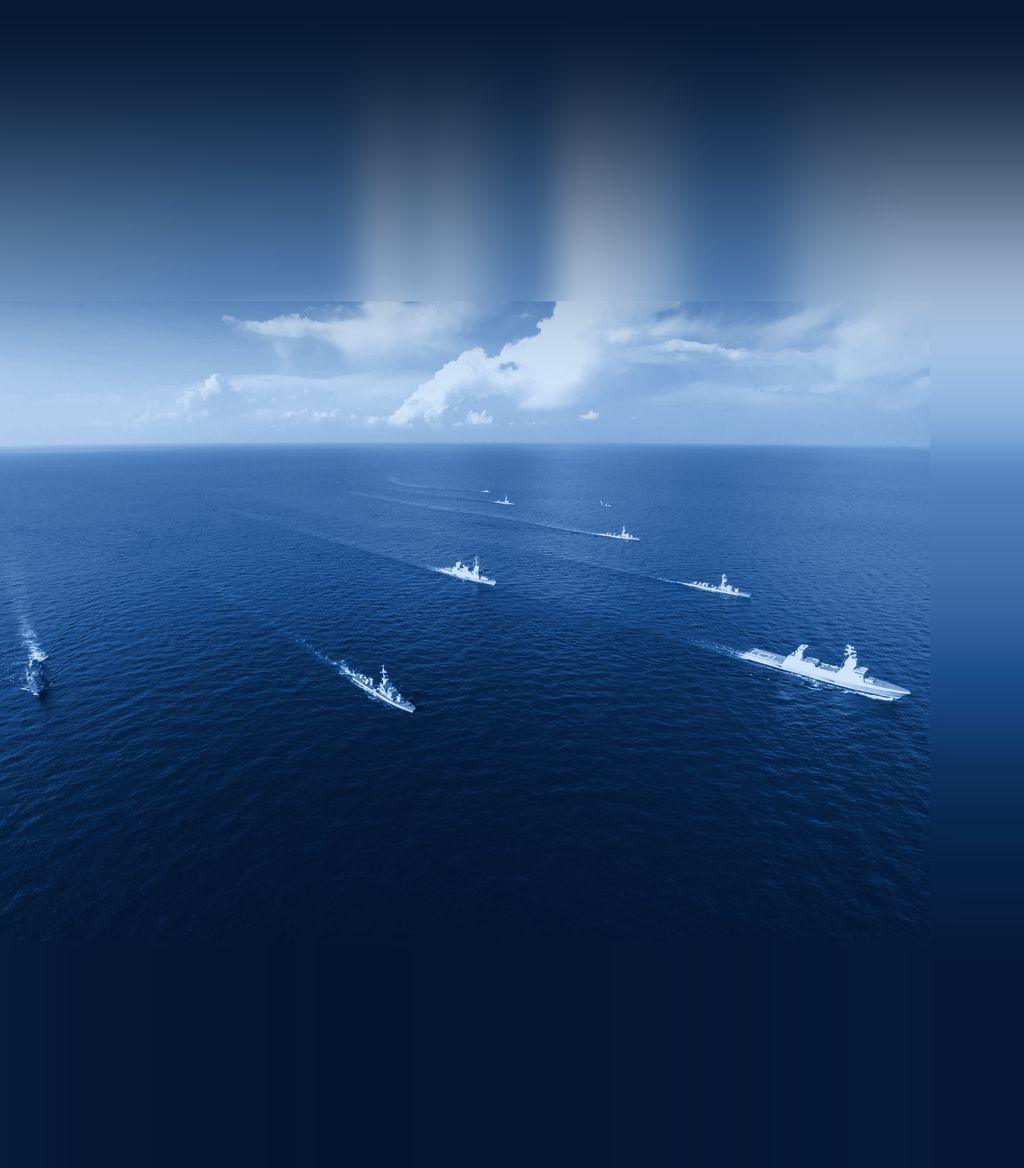
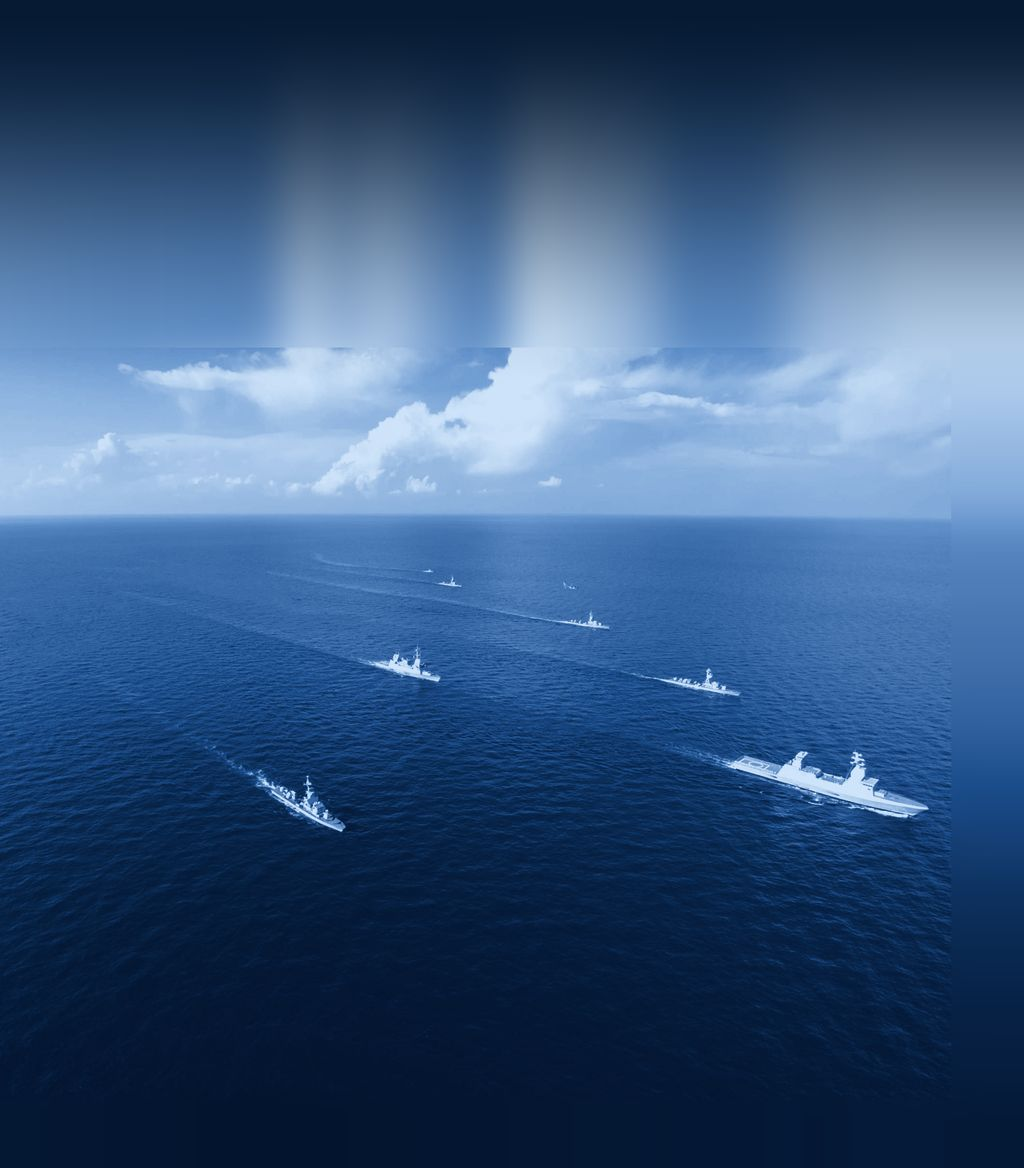
תמונת הצי ראשונה בפתיחת האתר, והספינות מוזזות למטה
Claude-Session: https://claude.ai/code/session_01Hx12K5ZnRbKUf5AJ8dzznT

diff --git a/app.js b/app.js
@@ -79,12 +79,10 @@
   var heroBg = document.querySelector('.hero-bg'), HERO_COUNT = 6, lastNav = null;
   function pickHero(){
     if(!heroBg) return;
-    var prev = 0;
-    try{ prev = parseInt(sessionStorage.getItem('hero'), 10) || 0; }catch(err){}
-    var n;
-    do { n = 1 + Math.floor(Math.random() * HERO_COUNT); } while(n === prev);  // לא אותה תמונה פעמיים ברצף
+    var prev = parseInt(heroBg.dataset.hero, 10) || 0, n;
+    if(!prev){ n = 1; }  // פתיחת האתר: תמונת הצי תמיד ראשונה
+    else { do { n = 1 + Math.floor(Math.random() * HERO_COUNT); } while(n === prev); }  // אחר כך באקראי, לא אותה תמונה פעמיים ברצף
     heroBg.dataset.hero = n;
-    try{ sessionStorage.setItem('hero', n); }catch(err){}
   }
 
   // ===== מעבר בין עמודים =====

diff --git a/index.html b/index.html
@@ -285,7 +285,7 @@
       #0a2a52;
   }
   /* תמונות השער מתחלפות באקראי בכל כניסה לדף הבית (app.js) */
-  .hero-bg, .hero-bg[data-hero="1"]{--hero:url("hero-1.jpg?v=1")}
+  .hero-bg, .hero-bg[data-hero="1"]{--hero:url("hero-1.jpg?v=2")}
   .hero-bg[data-hero="2"]{--hero:url("hero-2.jpg?v=1")}
   .hero-bg[data-hero="3"]{--hero:url("hero-3.jpg?v=1")}
   .hero-bg[data-hero="4"]{--hero:url("hero-4.jpg?v=1")}
@@ -2398,6 +2398,6 @@
 </div>
 
 <!-- כל הקוד של האתר נמצא ב-app.js (נדרש בגלל מדיניות האבטחה שבראש הדף) -->
-<script src="app.js?v=7"></script>
+<script src="app.js?v=8"></script>
 </body>
 </html>
